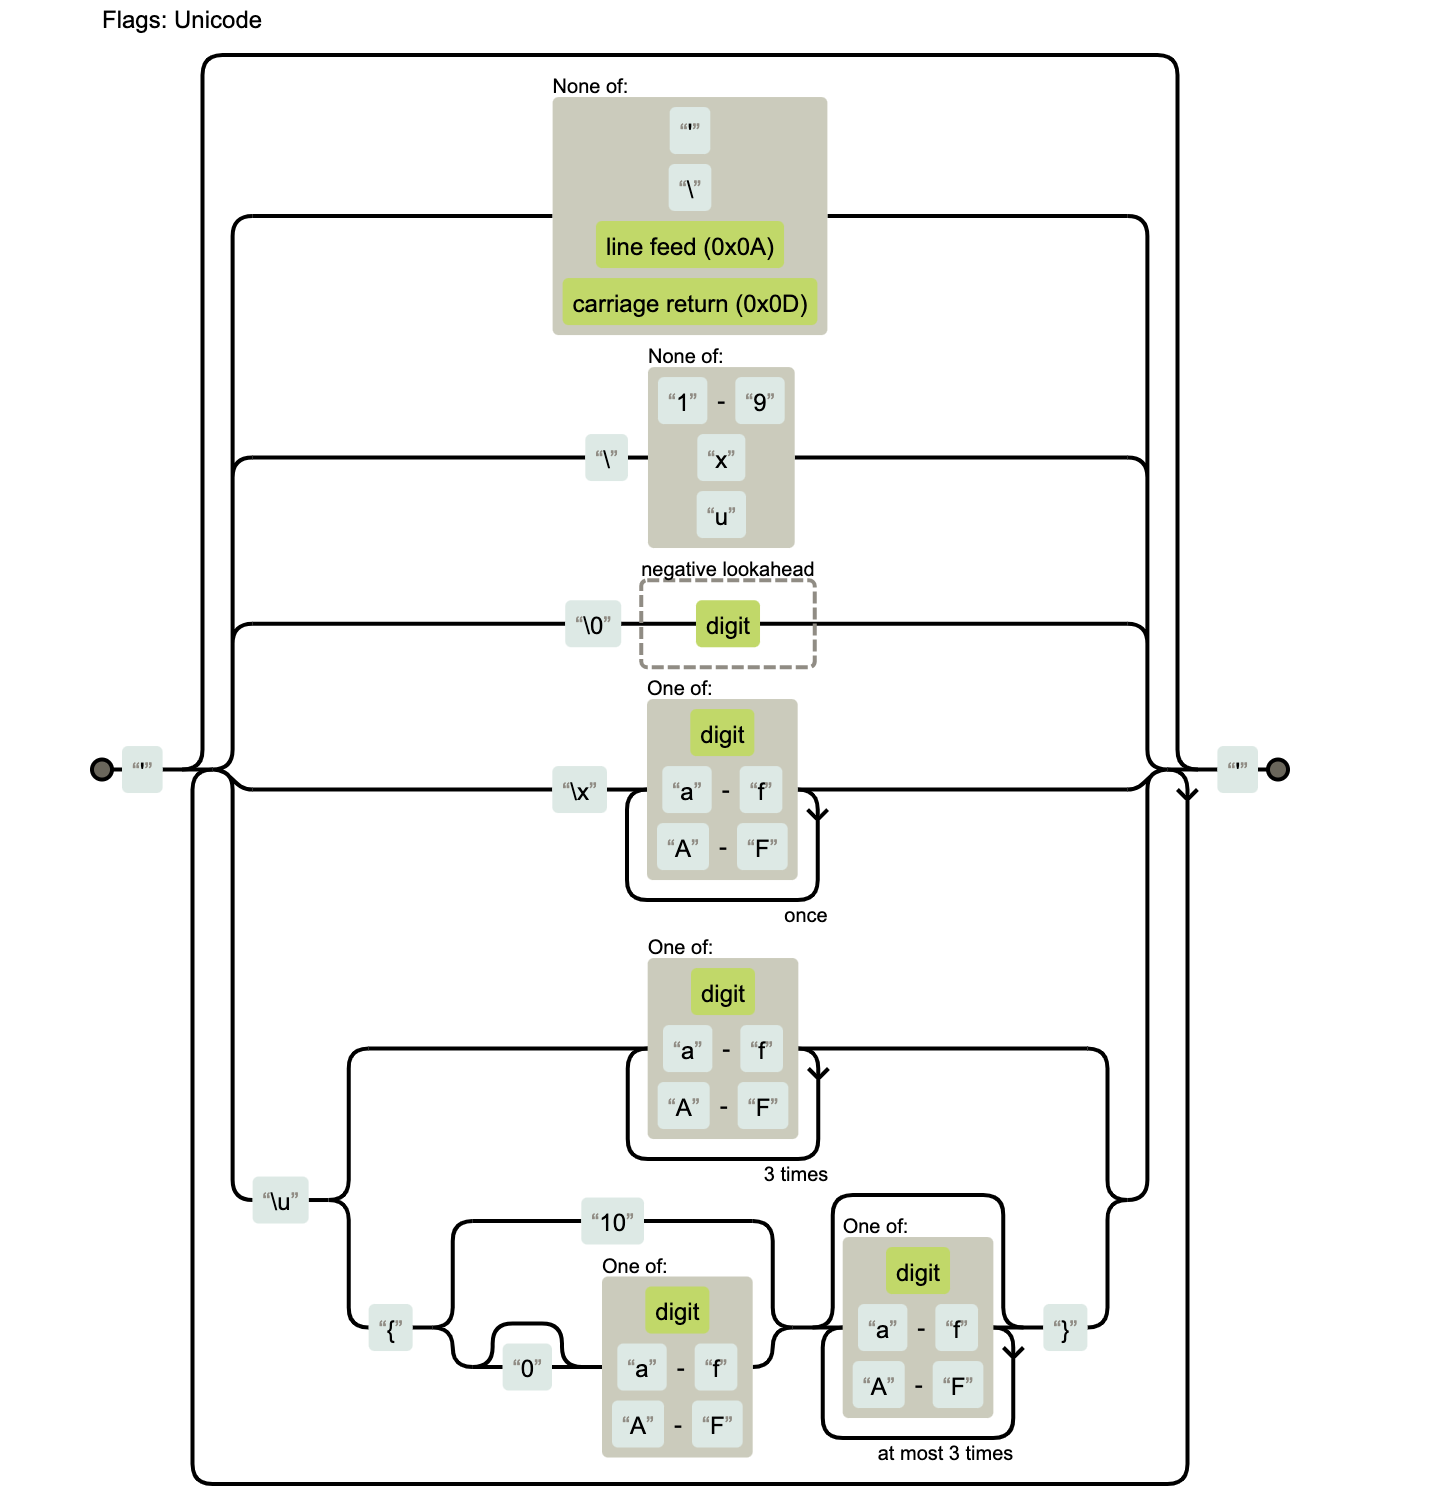
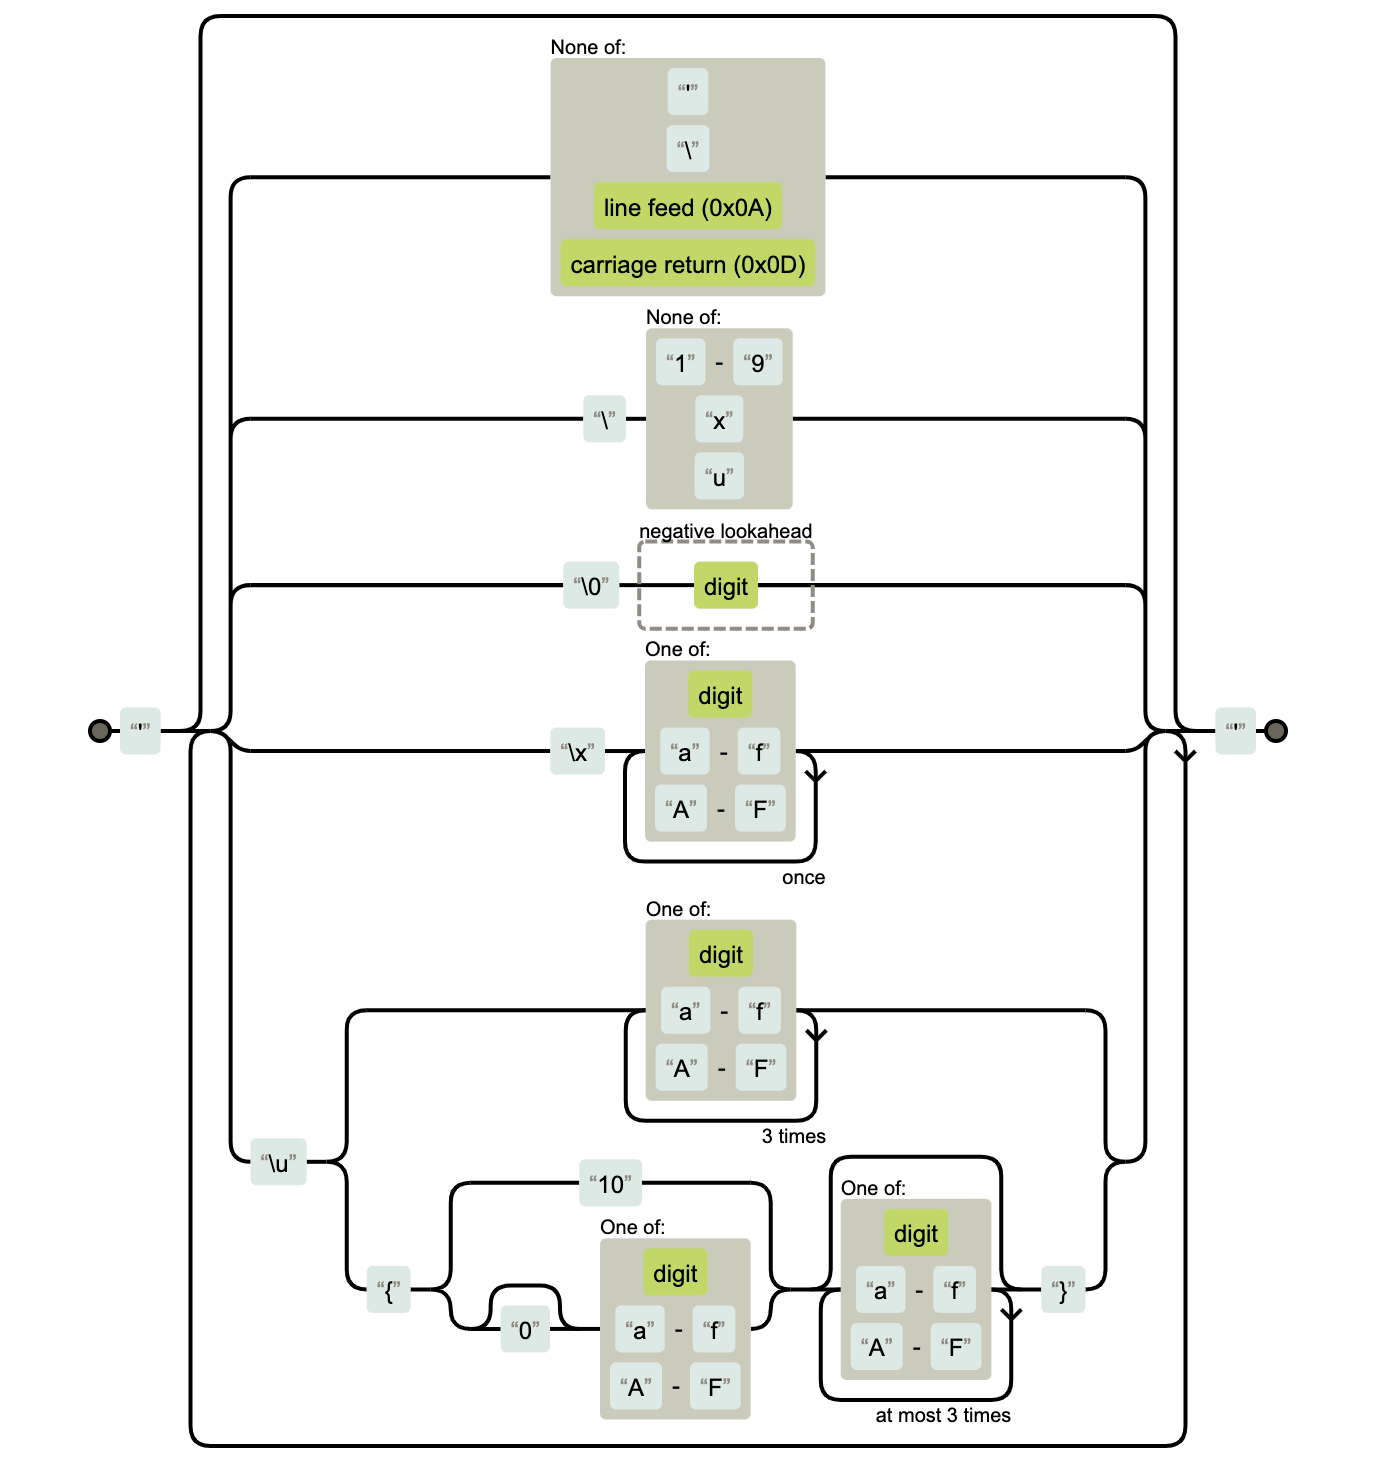
mosiya: fix 03

Changed region(s): [[0.0614, 0.0, 0.9214, 1.0]]

diff --git a/week02/homework.md b/week02/homework.md
@@ -317,13 +317,13 @@ EscapeCharacter 的代码为
 整理化简得 DoubleStringCharacters 的正则为：
 
 ```js
-/"(?:[^"\\\n\r]|\\[^1-9xu]|\\0(?!\d)|\\x[\da-fA-F]{2}|\\u(?:[\da-fA-F]{4}|\{(?:10|0?[\da-fA-F])[\da-fA-F]{0,4}\}))*"/u
+/"(?:[^"\\\n\r]|\\[^1-9xu]|\\0(?!\d)|\\x[\da-fA-F]{2}|\\u(?:[\da-fA-F]{4}|\{(?:10|0?[\da-fA-F])[\da-fA-F]{0,4}\}))*"/
 ```
 
 同理可得 SingleStringCharacters 的正则为：
 
 ```js
-/'(?:[^'\\\n\r]|\\[^1-9xu]|\\0(?!\d)|\\x[\da-fA-F]{2}|\\u(?:[\da-fA-F]{4}|\{(?:10|0?[\da-fA-F])[\da-fA-F]{0,4}\}))*'/u
+/'(?:[^'\\\n\r]|\\[^1-9xu]|\\0(?!\d)|\\x[\da-fA-F]{2}|\\u(?:[\da-fA-F]{4}|\{(?:10|0?[\da-fA-F])[\da-fA-F]{0,4}\}))*'/
 ```
 
 最终的分析结果分别如下：
